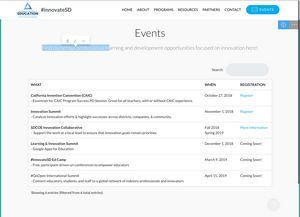
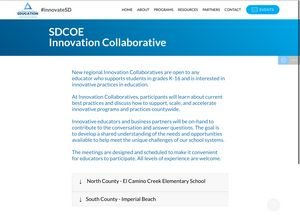
Collaborative Update

diff --git a/about.html b/about.html
@@ -24,48 +24,7 @@
   
 </head>
 <body>
-  <section class="menu cid-qRIc35awCe" once="menu" id="menu2-24">
-
-    
-
-    <nav class="navbar navbar-expand beta-menu navbar-dropdown align-items-center navbar-fixed-top navbar-toggleable-sm">
-        <button class="navbar-toggler navbar-toggler-right" type="button" data-toggle="collapse" data-target="#navbarSupportedContent" aria-controls="navbarSupportedContent" aria-expanded="false" aria-label="Toggle navigation">
-            <div class="hamburger">
-                <span></span>
-                <span></span>
-                <span></span>
-                <span></span>
-            </div>
-        </button>
-        <div class="menu-logo">
-            <div class="navbar-brand">
-                <span class="navbar-logo">
-                    <a href="http://www.sdcoe.net">
-                        <img src="assets/images/sdcoe-logo-tri-rgb-250px-224x173.png" alt="San Diego County Office of Education" title="San Diego County Office of Education" style="height: 4.5rem;">
-                    </a>
-                </span>
-                <span class="navbar-caption-wrap"><a class="navbar-caption text-warning display-5" href="index.html">
-                        #innovateSD</a></span>
-            </div>
-        </div>
-        <div class="collapse navbar-collapse" id="navbarSupportedContent">
-            <ul class="navbar-nav nav-dropdown" data-app-modern-menu="true"><li class="nav-item">
-                    <a class="nav-link link text-black display-4" href="index.html">
-                        HOME</a>
-                </li><li class="nav-item"><a class="nav-link link text-black display-4" href="about.html">
-                        ABOUT</a></li><li class="nav-item"><a class="nav-link link text-black display-4" href="programs.html">
-                        PROGRAMS</a></li><li class="nav-item"><a class="nav-link link text-black display-4" href="resources.html">
-                        RESOURCES</a></li><li class="nav-item"><a class="nav-link link text-black display-4" href="partners.html">
-                        PARTNERS</a></li><li class="nav-item"><a class="nav-link link text-black display-4" href="contact.html">
-                        CONTACT</a></li></ul>
-            <div class="navbar-buttons mbr-section-btn"><a class="btn btn-sm btn-primary display-4" href="events.html"><span class="mbri-calendar mbr-iconfont mbr-iconfont-btn"></span>
-                    
-                    EVENTS</a></div>
-        </div>
-    </nav>
-</section>
-
-<section class="engine"><a href="https://mobiri.se/o">portfolio web templates</a></section><section class="features14 cid-qSP6rkgGdB" id="features14-29">
+  <section class="features14 cid-qSP6rkgGdB" id="features14-29">
     
     
 
@@ -135,7 +94,7 @@
     </div>
 </section>
 
-<section class="testimonials4 cid-qSQigrc43X" id="testimonials4-2e">
+<section class="engine"><a href="https://mobiri.se/e">make your own website for free</a></section><section class="testimonials4 cid-qSQigrc43X" id="testimonials4-2e">
 
   
 
@@ -202,7 +161,7 @@
         <div class="user row">
           <div class="col-lg-3 col-md-4">
             <div class="user_image">
-              <img src="assets/images/image-coming-soon-300x300.png" alt="" title="">
+              <img src="assets/images/20180924-84237-300x400.jpg" alt="" title="">
             </div>
           </div>
           <div class="testimonials-caption col-lg-9 col-md-8">
@@ -219,7 +178,7 @@
         <div class="user row">
           <div class="col-lg-3 col-md-4">
             <div class="user_image">
-              <img src="assets/images/image-coming-soon-300x300.png" alt="" title="">
+              <img src="assets/images/sdcoe-logo-tri-rgb-250px-224x1730.png" alt="" title="">
             </div>
           </div>
           <div class="testimonials-caption col-lg-9 col-md-8">
@@ -236,7 +195,7 @@
         <div class="user row">
           <div class="col-lg-3 col-md-4">
             <div class="user_image">
-              <img src="assets/images/image-coming-soon-300x300.png" alt="" title="">
+              <img src="assets/images/leo-pic-300x276.jpg" alt="" title="">
             </div>
           </div>
           <div class="testimonials-caption col-lg-9 col-md-8">
@@ -270,7 +229,7 @@
         <div class="user row">
           <div class="col-lg-3 col-md-4">
             <div class="user_image">
-              <img src="assets/images/image-coming-soon-300x300.png" alt="" title="">
+              <img src="assets/images/sdcoe-logo-tri-rgb-250px-224x1731.png" alt="" title="">
             </div>
           </div>
           <div class="testimonials-caption col-lg-9 col-md-8">
@@ -302,6 +261,47 @@
         </div>
       </div></div>
   </div>
+</section>
+
+<section class="menu cid-qRIc35awCe" once="menu" id="menu2-24">
+
+    
+
+    <nav class="navbar navbar-expand beta-menu navbar-dropdown align-items-center navbar-fixed-top navbar-toggleable-sm">
+        <button class="navbar-toggler navbar-toggler-right" type="button" data-toggle="collapse" data-target="#navbarSupportedContent" aria-controls="navbarSupportedContent" aria-expanded="false" aria-label="Toggle navigation">
+            <div class="hamburger">
+                <span></span>
+                <span></span>
+                <span></span>
+                <span></span>
+            </div>
+        </button>
+        <div class="menu-logo">
+            <div class="navbar-brand">
+                <span class="navbar-logo">
+                    <a href="http://www.sdcoe.net">
+                        <img src="assets/images/sdcoe-logo-tri-rgb-250px-224x173.png" alt="San Diego County Office of Education" title="San Diego County Office of Education" style="height: 4.5rem;">
+                    </a>
+                </span>
+                <span class="navbar-caption-wrap"><a class="navbar-caption text-warning display-5" href="index.html">
+                        #innovateSD</a></span>
+            </div>
+        </div>
+        <div class="collapse navbar-collapse" id="navbarSupportedContent">
+            <ul class="navbar-nav nav-dropdown" data-app-modern-menu="true"><li class="nav-item">
+                    <a class="nav-link link text-black display-4" href="index.html">
+                        HOME</a>
+                </li><li class="nav-item"><a class="nav-link link text-black display-4" href="about.html">
+                        ABOUT</a></li><li class="nav-item"><a class="nav-link link text-black display-4" href="programs.html">
+                        PROGRAMS</a></li><li class="nav-item"><a class="nav-link link text-black display-4" href="resources.html">
+                        RESOURCES</a></li><li class="nav-item"><a class="nav-link link text-black display-4" href="partners.html">
+                        PARTNERS</a></li><li class="nav-item"><a class="nav-link link text-black display-4" href="contact.html">
+                        CONTACT</a></li></ul>
+            <div class="navbar-buttons mbr-section-btn"><a class="btn btn-sm btn-primary display-4" href="events.html"><span class="mbri-calendar mbr-iconfont mbr-iconfont-btn"></span>
+                    
+                    EVENTS</a></div>
+        </div>
+    </nav>
 </section>
 
 <section once="" class="cid-qRIIIIusNX mbr-reveal" id="footer7-25">

diff --git a/clusters.html b/clusters.html
@@ -65,7 +65,7 @@
     </nav>
 </section>
 
-<section class="engine"><a href="https://mobiri.se/r">bootstrap template</a></section><section class="mbr-section info1 cid-r2YSDKf6qx" id="info1-3a">
+<section class="engine"><a href="https://mobiri.se/v">free html templates</a></section><section class="mbr-section info1 cid-r2YSDKf6qx" id="info1-3a">
 
     
 
@@ -92,7 +92,7 @@
             <div class="media-container-row">
                 <div class="col-12 col-md-8">
                     <div class="section-head text-center space30">
-                       <h2 class="mbr-section-title pb-5 mbr-fonts-style display-5">The new SDCOE Innovation Division is inviting K-16 educators to participate in Regional Collaborative Meetings.<br><br>The intent of these Innovation Collaboratives is to share current best practices and to support, scale, and accellerate innovative programs and practices county-wide.<br><br>All levels of experience are welcome. Meetings have been scheduled so educators can participate conveniently.&nbsp;<br><br>Learn from the top innovative educators and business partners in San Diego County. Our goal is to develop a shared understanding of the needs and opportunities available to help us meet the unique challenges of our schools and districts.</h2>
+                       <h2 class="mbr-section-title pb-5 mbr-fonts-style display-5">New regional Innovation&nbsp;Collaboratives are open to&nbsp;any educator&nbsp;who supports students&nbsp;in grades&nbsp;K-16 and is&nbsp;interested in innovative practices in education.<div><br></div><div>At&nbsp;Innovation Collaboratives, participants will learn about&nbsp;current best practices and discuss how&nbsp;to support, scale, and accelerate innovative programs and practices countywide.&nbsp;</div><div><br></div><div>Innovative educators and business partners will be on-hand to contribute to the conversation&nbsp;and answer questions. The goal is to&nbsp;develop&nbsp;a shared understanding of the needs and opportunities available to help meet the unique challenges of our school systems.</div><div><br></div><div>The meetings are designed and scheduled&nbsp;to make it convenient for&nbsp;educators to&nbsp;participate.&nbsp;All levels of experience are welcome.&nbsp;</div></h2>
                     </div>
                     <div class="clearfix"></div>
                     <div id="bootstrap-toggle" class="toggle-panel accordionStyles tab-content">
@@ -104,7 +104,7 @@
                             </div>
                             <div id="collapse1_2" class="panel-collapse noScroll collapse" role="tabpanel" aria-labelledby="headingOne">
                                 <div class="panel-body p-4">
-                                    <p class="mbr-fonts-style panel-text display-7"></p><p>October 29, 2018 - Two open sessions available&nbsp;</p><br><p><strong>Meetings - 7885 Paseo Aliso, Carlsbad, CA 92009</strong></p><p>1:00 - 3:00 PM - <a href="http://sdcoe.k12oms.org/2287-158709" target="_blank">Register</a></p><p>3:30 - 5:30 PM - <a href="http://sdcoe.k12oms.org/2287-158709" target="_blank">Register</a></p><p></p><p></p><p></p><p></p>
+                                    <p class="mbr-fonts-style panel-text display-7"></p><p>October 29, 2018 - 2 hour sessions<br></p><br><p><strong>Meetings - 7885 Paseo Aliso, Carlsbad, CA 92009</strong></p><p>1:00 - 3:00 PM - <a href="http://sdcoe.k12oms.org/2287-158709" target="_blank">Register</a></p><p>3:30 - 5:30 PM - <a href="http://sdcoe.k12oms.org/2287-158709" target="_blank">Register</a></p><p></p><p></p><p></p><p></p>
                                 </div>
                             </div>
                         </div>
@@ -117,7 +117,7 @@
                             </div>
                             <div id="collapse2_2" class="panel-collapse noScroll collapse" role="tabpanel" aria-labelledby="headingTwo">
                                 <div class="panel-body p-4">
-                                    <p class="mbr-fonts-style panel-text display-7">November 15, 2018 - Site visit and two sessions available<br><br><strong>Site Visit - 1290 Ebony Avenue, Imperial Beach, CA 91932<br></strong>10:00 AM - 12:00 PM (Limited to 15 Attendees) - <a href="http://sdcoe.k12oms.org/2287-158710" target="_blank">Register</a><br><br><strong>Meetings - 601 Elm Avenue, Imperial Beach, CA 91932</strong><br>1 - 3:00 PM - <a href="http://sdcoe.k12oms.org/2287-158710" target="_blank">Register</a><br>
+                                    <p class="mbr-fonts-style panel-text display-7">November 15, 2018 - Site visit and two 2 hour sessions<br><br><strong>Site Visit - 1290 Ebony Avenue, Imperial Beach, CA 91932<br></strong><br>10:00 AM - 12:00 PM (Limited to 15 Attendees) - <a href="http://sdcoe.k12oms.org/2287-158710" target="_blank">Register</a><br><br><strong>Meetings - 601 Elm Avenue, Imperial Beach, CA 91932</strong><br><br>1:00 - 3:00 PM - <a href="http://sdcoe.k12oms.org/2287-158710" target="_blank">Register</a><br>
 <br>3:30 - 5:30 PM - <a href="http://sdcoe.k12oms.org/2287-158710" target="_blank">Register</a><br></p>
                                 </div>
                             </div>

diff --git a/events.html b/events.html
@@ -66,7 +66,7 @@
     </nav>
 </section>
 
-<section class="engine"><a href="https://mobiri.se/c">free website builder</a></section><section class="section-table cid-qSQv9TVB7m" id="table1-2g">
+<section class="engine"><a href="https://mobiri.se/w">html5 templates</a></section><section class="section-table cid-qSQv9TVB7m" id="table1-2g">
 
   
   
@@ -120,7 +120,7 @@
                 
                 
                 
-              <td class="body-item mbr-fonts-style display-7"><strong>SDCOE Innovation Collaborative (Main/Metro, North, South, East, Charters)</strong><br>- &nbsp;Support the work at a local level to ensure that innovation goals remain priorities</td><td class="body-item mbr-fonts-style display-7">Fall 2018<br>Spring 2019</td><td class="body-item mbr-fonts-style display-7"><a href="clusters.html">More Information</a></td></tr><tr> 
+              <td class="body-item mbr-fonts-style display-7"><strong>SDCOE Innovation Collaborative</strong><br>- &nbsp;Support the work at a local level to ensure that innovation goals remain priorities</td><td class="body-item mbr-fonts-style display-7">Fall 2018<br>Spring 2019</td><td class="body-item mbr-fonts-style display-7"><a href="clusters.html">More Information</a></td></tr><tr> 
                 
                 
                 

diff --git a/index.html b/index.html
@@ -65,7 +65,7 @@
     </nav>
 </section>
 
-<section class="engine"><a href="https://mobiri.se/b">create a site for free</a></section><section class="carousel slide cid-qRIgz9SrTf" data-interval="false" id="slider1-7">
+<section class="engine"><a href="https://mobiri.se/m">website design templates</a></section><section class="carousel slide cid-qRIgz9SrTf" data-interval="false" id="slider1-7">
 
     
 

diff --git a/programs.html b/programs.html
@@ -66,7 +66,7 @@
     </nav>
 </section>
 
-<section class="engine"><a href="https://mobiri.se/c">free web builder</a></section><section class="header12 cid-qSQNTbFFe9 mbr-parallax-background" id="header12-2j">
+<section class="engine"><a href="https://mobiri.se/a">online web builder</a></section><section class="header12 cid-qSQNTbFFe9 mbr-parallax-background" id="header12-2j">
 
     
 

diff --git a/resources.html b/resources.html
@@ -65,7 +65,7 @@
     </nav>
 </section>
 
-<section class="engine"><a href="https://mobiri.se/k">how to develop your own website</a></section><section class="features18 popup-btn-cards cid-qSOAVQWm96" id="features18-1e">
+<section class="engine"><a href="https://mobiri.se/c">web builder</a></section><section class="features18 popup-btn-cards cid-qSOAVQWm96" id="features18-1e">
 
     
 

diff --git a/contact.html b/contact.html
@@ -65,7 +65,7 @@
     </nav>
 </section>
 
-<section class="engine"><a href="https://mobiri.se/f">easy website creator</a></section><section class="mbr-section content4 cid-qSO2hJjo4W" id="content4-17">
+<section class="engine"><a href="https://mobiri.se/f">simple web maker</a></section><section class="mbr-section content4 cid-qSO2hJjo4W" id="content4-17">
 
     
 

diff --git a/partners.html b/partners.html
@@ -65,7 +65,7 @@
     </nav>
 </section>
 
-<section class="engine"><a href="https://mobiri.se/b">how to create your own website for free</a></section><section class="clients cid-qSQpUL1COp" id="clients-2f">
+<section class="engine"><a href="https://mobiri.se/t">free amp template</a></section><section class="clients cid-qSQpUL1COp" id="clients-2f">
       
 
     
